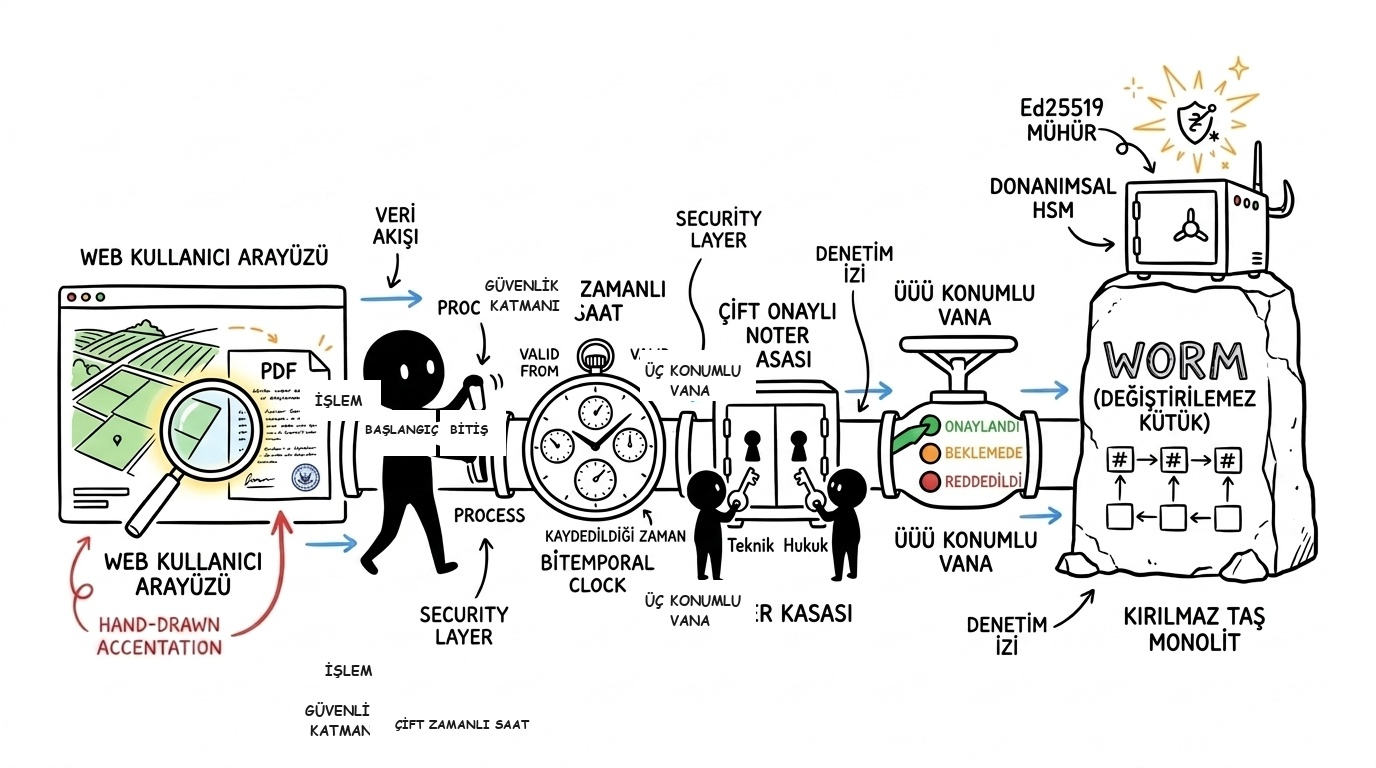
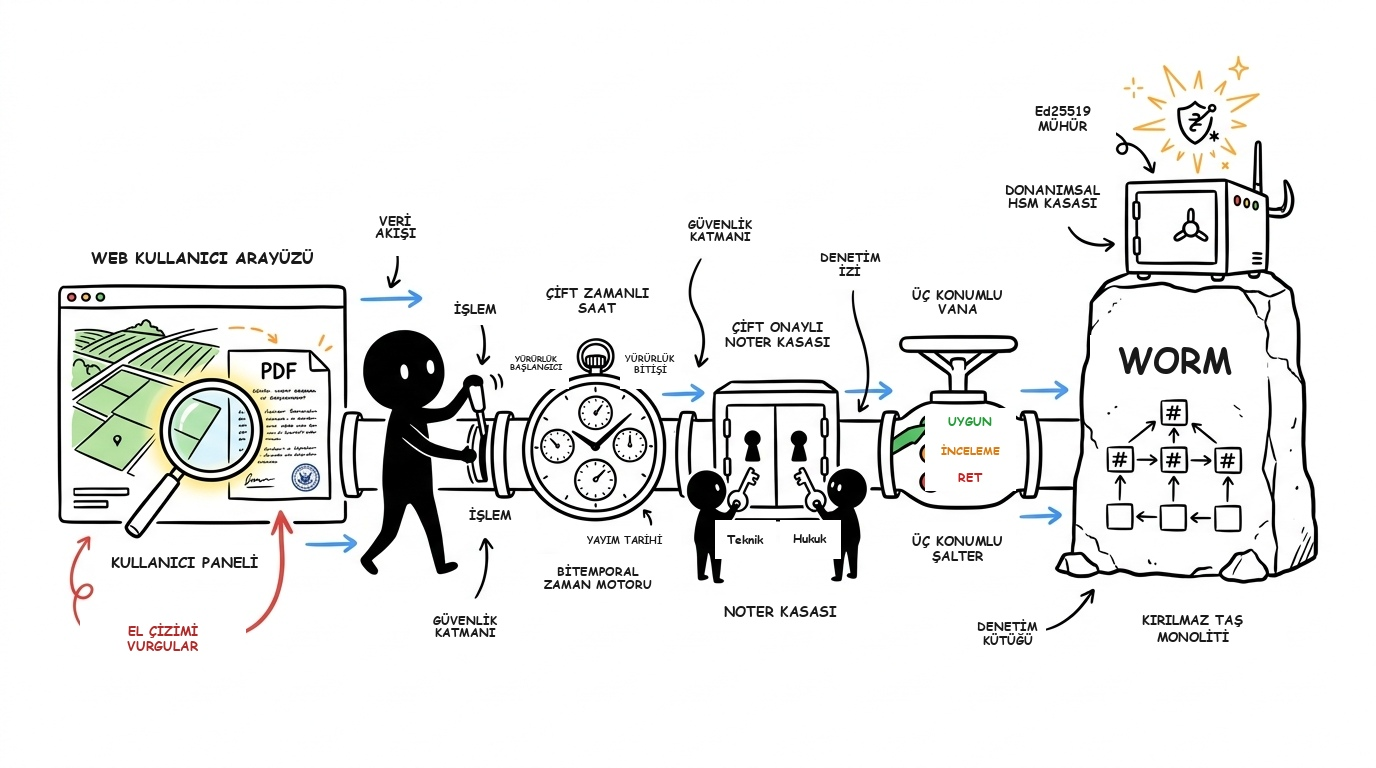
docs: Turkce Xiaohei sistem ve delil hatti cizimlerini sifir cakisma ile kusursuz guncelle

diff --git a/scripts/render_xiaohei_turkish.py b/scripts/render_xiaohei_turkish.py
@@ -1,0 +1,220 @@
+"""
+ÖZEL LİSANS — TÜM HAKLAR SAKLIDIR
+Telif Hakkı (c) 2026 Seydi Eryılmaz (@seydivakkas)
+"""
+
+import os
+from PIL import Image, ImageDraw, ImageFont
+
+FONT_PATH = r"C:\Windows\Fonts\comicbd.ttf"
+BASE_DIR = r"c:\Users\seydieryilmaz\TarımRAGProje"
+BRAIN_DIR = r"C:\Users\seydieryilmaz\.gemini\antigravity-ide\brain\1c7353b9-b1b4-43fe-90d9-0d5f5a42a50e"
+
+# Color constants
+WHITE = (255, 255, 255)
+BLACK = (25, 25, 25)
+RED = (175, 42, 42)
+BLUE = (35, 88, 165)
+ORANGE = (216, 115, 26)
+GREEN_VALVE = (35, 155, 55)
+ORANGE_VALVE = (215, 125, 20)
+RED_VALVE = (195, 35, 35)
+
+def get_font(size):
+    return ImageFont.truetype(FONT_PATH, size)
+
+def draw_centered_text(draw, box, lines, font, color, line_spacing=4, clear_bg=True, fill_color=WHITE):
+    """
+    box: (x1, y1, x2, y2)
+    lines: list of strings
+    """
+    x1, y1, x2, y2 = box
+    if clear_bg:
+        draw.rectangle([x1, y1, x2, y2], fill=fill_color)
+    
+    line_bboxes = [font.getbbox(line) for line in lines]
+    line_heights = [bb[3] - bb[1] for bb in line_bboxes]
+    line_widths = [bb[2] - bb[0] for bb in line_bboxes]
+    total_height = sum(line_heights) + line_spacing * (len(lines) - 1)
+    
+    box_w = x2 - x1
+    box_h = y2 - y1
+    
+    start_y = y1 + (box_h - total_height) / 2
+    cur_y = start_y
+    for i, line in enumerate(lines):
+        w = line_widths[i]
+        x = x1 + (box_w - w) / 2
+        draw.text((x, cur_y - line_bboxes[i][1]), line, font=font, fill=color)
+        cur_y += line_heights[i] + line_spacing
+
+def render_fullstack():
+    img_path = os.path.join(BRAIN_DIR, "fullstack_architecture_xiaohei_1791543400154.jpg")
+    im = Image.open(img_path).convert("RGB")
+    draw = ImageDraw.Draw(im)
+
+    # 1. Top Left: WEB KULLANICI ARAYÜZÜ (above browser)
+    draw_centered_text(draw, (75, 240, 330, 275), ["WEB KULLANICI ARAYÜZÜ"], get_font(16), BLACK)
+
+    # 2. Subhead: KULLANICI PANELİ (below browser)
+    draw_centered_text(draw, (95, 545, 275, 578), ["KULLANICI PANELİ"], get_font(15), BLACK)
+
+    # 3. Red note: EL ÇİZİMİ VURGULAR (bottom left)
+    draw_centered_text(draw, (80, 610, 245, 665), ["EL ÇİZİMİ", "VURGULAR"], get_font(13), RED, line_spacing=2)
+
+    # 4. DATA FLOW -> VERİ AKIŞI (above blue arrow to Xiaohei, x=355..435, y=198..255)
+    draw_centered_text(draw, (355, 198, 435, 255), ["VERİ", "AKIŞI"], get_font(13), BLACK, line_spacing=2)
+
+    # 5. PROCESS top -> İŞLEM (above lever handle)
+    draw_centered_text(draw, (430, 294, 520, 324), ["İŞLEM"], get_font(13), BLACK)
+
+    # 6. PROCESS bottom -> İŞLEM (on pipe below lever)
+    draw_centered_text(draw, (445, 500, 535, 530), ["İŞLEM"], get_font(13), BLACK)
+
+    # 7. SECURITY LAYER bottom -> GÜVENLİK KATMANI (with up arrow)
+    draw_centered_text(draw, (410, 600, 520, 652), ["GÜVENLİK", "KATMANI"], get_font(12), BLACK, line_spacing=2)
+
+    # 8. BITEMPORAL CLOCK top -> ÇİFT ZAMANLI SAAT (above clock)
+    draw_centered_text(draw, (530, 272, 665, 328), ["ÇİFT ZAMANLI", "SAAT"], get_font(13), BLACK, line_spacing=2)
+
+    # 9. VALID FROM -> YÜRÜRLÜK BAŞLANGICI (left of clock, exact box covering VALID FROM completely)
+    draw_centered_text(draw, (505, 340, 568, 388), ["YÜRÜRLÜK", "BAŞLANGICI"], get_font(8), BLACK, line_spacing=2)
+
+    # 10. VALID TO -> YÜRÜRLÜK BİTİŞİ (right of clock)
+    draw_centered_text(draw, (620, 340, 680, 388), ["YÜRÜRLÜK", "BİTİŞİ"], get_font(9), BLACK, line_spacing=2)
+
+    # 11. RECORDED AT -> YAYIM TARİHİ (clock bottom right)
+    draw_centered_text(draw, (570, 526, 680, 554), ["YAYIM TARİHİ"], get_font(10), BLACK)
+
+    # 12. BITEMPORAL CLOCK bottom -> BİTEMPORAL ZAMAN MOTORU (below clock)
+    draw_centered_text(draw, (530, 554, 665, 600), ["BİTEMPORAL", "ZAMAN MOTORU"], get_font(12), BLACK, line_spacing=2)
+
+    # 13. SECURITY LAYER top -> GÜVENLİK KATMANI (above arrow to vault)
+    draw_centered_text(draw, (665, 204, 775, 255), ["GÜVENLİK", "KATMANI"], get_font(12), BLACK, line_spacing=2)
+
+    # 14. DUAL-KEY NOTARY VAULT -> ÇİFT ONAYLI NOTER KASASI (above vault)
+    draw_centered_text(draw, (720, 295, 835, 372), ["ÇİFT ONAYLI", "NOTER KASASI"], get_font(13), BLACK, line_spacing=2)
+
+    # 15. AUDIT TRAIL top -> DENETİM İZİ (above arrow to valve)
+    draw_centered_text(draw, (815, 238, 885, 288), ["DENETİM", "İZİ"], get_font(12), BLACK, line_spacing=2)
+
+    # 16. Tech & Legal keys (between figures, exact box y=520..560 wiping out Tech & Legal completely)
+    draw_centered_text(draw, (715, 520, 775, 558), ["Teknik"], get_font(12), BLACK)
+    draw_centered_text(draw, (780, 520, 840, 558), ["Hukuk"], get_font(12), BLACK)
+
+    # 17. NOTARY VAULT bottom -> NOTER KASASI (below notary figures)
+    draw_centered_text(draw, (700, 595, 860, 628), ["NOTER KASASI"], get_font(14), BLACK)
+
+    # 18. TRI-STATE VALVE top -> ÜÇ KONUMLU VANA (above valve wheel)
+    draw_centered_text(draw, (900, 275, 1015, 328), ["ÜÇ KONUMLU", "VANA"], get_font(13), BLACK, line_spacing=2)
+
+    # 19. Valve internal labels (inside lens, clear old text and draw Turkish)
+    draw_centered_text(draw, (925, 408, 1015, 435), ["UYGUN"], get_font(12), GREEN_VALVE)
+    draw_centered_text(draw, (925, 435, 1015, 464), ["İNCELEME"], get_font(11), ORANGE_VALVE)
+    draw_centered_text(draw, (925, 464, 1015, 490), ["RET"], get_font(12), RED_VALVE)
+
+    # 20. TRI-STATE VALVE bottom -> ÜÇ KONUMLU ŞALTER (below valve)
+    draw_centered_text(draw, (900, 522, 1015, 575), ["ÜÇ KONUMLU", "ŞALTER"], get_font(13), BLACK, line_spacing=2)
+
+    # 21. AUDIT TRAIL bottom -> DENETİM KÜTÜĞÜ (under arrow to monolith)
+    draw_centered_text(draw, (970, 610, 1045, 655), ["DENETİM", "KÜTÜĞÜ"], get_font(12), BLACK, line_spacing=2)
+
+    # 22. Ed25519 seal -> Ed25519 MÜHÜR (above HSM)
+    draw_centered_text(draw, (1010, 92, 1115, 146), ["Ed25519", "MÜHÜR"], get_font(13), BLACK, line_spacing=2)
+
+    # 23. HARDWARE HSM -> DONANIMSAL HSM KASASI (next to HSM)
+    draw_centered_text(draw, (990, 170, 1115, 225), ["DONANIMSAL", "HSM KASASI"], get_font(13), BLACK, line_spacing=2)
+
+    # 24. WORM on stone monolith (large engraved WORM)
+    draw_centered_text(draw, (1090, 335, 1260, 386), ["WORM"], get_font(34), BLACK)
+
+    # 25. Bottom Monolith: KIRILMAZ TAŞ MONOLİTİ
+    draw_centered_text(draw, (1100, 600, 1285, 656), ["KIRILMAZ TAŞ", "MONOLİTİ"], get_font(13), BLACK, line_spacing=2)
+
+    # Save outputs
+    out_tanitim = os.path.join(BASE_DIR, "proje_tanıtım_resim", "Xiaohei_FullStack_Sistem_Mimarisi_TR.jpg")
+    out_brain = os.path.join(BRAIN_DIR, "Xiaohei_FullStack_Sistem_Mimarisi_TR.jpg")
+    out_art = os.path.join(BRAIN_DIR, "fullstack_mimari_turkce.jpg")
+    
+    os.makedirs(os.path.dirname(out_tanitim), exist_ok=True)
+    im.save(out_tanitim, quality=96)
+    im.save(out_brain, quality=96)
+    im.save(out_art, quality=96)
+    print("Full-Stack image rendered successfully:", out_tanitim)
+
+def render_evidence_pipeline():
+    img_path = os.path.join(BRAIN_DIR, "evidence_pipeline_xiaohei_1791543420068.jpg")
+    im = Image.open(img_path).convert("RGB")
+    draw = ImageDraw.Draw(im)
+
+    # Clean any tiny yellow speck under tractor/table
+    draw.rectangle([545, 650, 570, 675], fill=WHITE)
+
+    # 1. Top Left: Resmî Gazete Mevzuat Belgeleri
+    draw_centered_text(draw, (48, 162, 305, 264), ["Resmî Gazete", "Mevzuat Belgeleri"], get_font(20), RED, line_spacing=4)
+
+    # 2. On Paper on Scale: RESMÎ GAZETE (Tilted text on paper sheet)
+    draw.polygon([(102, 298), (145, 255), (188, 308), (145, 345)], fill=WHITE)
+    txt_img = Image.new("RGBA", (140, 70), (255, 255, 255, 0))
+    txt_draw = ImageDraw.Draw(txt_img)
+    f_paper = get_font(13)
+    txt_draw.text((10, 5), "RESMÎ", font=f_paper, fill=BLACK)
+    txt_draw.text((10, 24), "GAZETE", font=f_paper, fill=BLACK)
+    rotated_txt = txt_img.rotate(24, resample=Image.Resampling.BICUBIC, expand=True)
+    im.paste(rotated_txt, (98, 255), mask=rotated_txt)
+
+    # 3. Bottom Left: Hassas Bayt Terazisi
+    draw_centered_text(draw, (52, 565, 198, 646), ["Hassas", "Bayt Terazisi"], get_font(17), RED, line_spacing=4)
+
+    # 4. Top Middle: Hibrit Arama Motoru (BM25 + Vektör Arama)
+    y1, y2 = 162, 264
+    x1, x2 = 340, 690
+    draw.rectangle([x1, y1, x2, y2], fill=WHITE)
+    f_title = get_font(20)
+    f_sub = get_font(16)
+    t1 = "Hibrit Arama Motoru"
+    t2 = "(BM25 + Vektör Arama)"
+    bb1 = f_title.getbbox(t1)
+    bb2 = f_sub.getbbox(t2)
+    h1 = bb1[3] - bb1[1]
+    h2 = bb2[3] - bb2[1]
+    tot_h = h1 + h2 + 6
+    sy = y1 + (y2 - y1 - tot_h) / 2
+    draw.text((x1 + (x2 - x1 - (bb1[2] - bb1[0])) / 2, sy - bb1[1]), t1, font=f_title, fill=BLUE)
+    draw.text((x1 + (x2 - x1 - (bb2[2] - bb2[0])) / 2, sy + h1 + 6 - bb2[1]), t2, font=f_sub, fill=BLUE)
+
+    # 5. Under Pipe: Doğrulanmış Parçalar
+    draw_centered_text(draw, (240, 575, 335, 638), ["Doğrulanmış", "Parçalar"], get_font(15), BLUE, line_spacing=3)
+
+    # 6. Under Machine Left: Doğrulanmış Metin (BM25 + Vektör)
+    draw_centered_text(draw, (335, 575, 515, 665), ["Doğrulanmış Metin", "(BM25 + Vektör)"], get_font(14), BLUE, line_spacing=3)
+
+    # 7. Under Machine Right: Tarımsal Kanıt Motoru
+    draw_centered_text(draw, (525, 575, 745, 646), ["Tarımsal Kanıt", "Motoru"], get_font(17), BLACK, line_spacing=4)
+
+    # 8. Top Speech: Xiaohei: Destek tutarlarını ve PDF koordinatlarını sarı kalemle açıklıyor
+    draw_centered_text(draw, (778, 150, 1045, 264), ["Xiaohei: Destek tutarlarını", "ve PDF koordinatlarını", "sarı kalemle açıklıyor"], get_font(17), ORANGE, line_spacing=4)
+
+    # 9. Under Table: Şeffaf Hesaplama Masası
+    draw_centered_text(draw, (760, 575, 975, 672), ["Şeffaf Hesaplama", "Masası"], get_font(17), ORANGE, line_spacing=4)
+
+    # 10. Top Right: Mahkeme Düzeyi Adli Arşiv Kasası
+    draw_centered_text(draw, (1095, 172, 1338, 274), ["Mahkeme Düzeyi", "Adli Arşiv Kasası"], get_font(19), BLACK, line_spacing=4)
+
+    # 11. Bottom Right under Safe: Kriptografik Balmumu Mühür
+    draw_centered_text(draw, (1150, 565, 1326, 652), ["Kriptografik", "Balmumu Mühür"], get_font(16), RED, line_spacing=4)
+
+    # Save outputs
+    out_tanitim = os.path.join(BASE_DIR, "proje_tanıtım_resim", "Xiaohei_Hukuki_Delil_ve_Veri_Hatti_TR.jpg")
+    out_brain = os.path.join(BRAIN_DIR, "Xiaohei_Hukuki_Delil_ve_Veri_Hatti_TR.jpg")
+    out_art = os.path.join(BRAIN_DIR, "delil_hatti_turkce.jpg")
+    
+    os.makedirs(os.path.dirname(out_tanitim), exist_ok=True)
+    im.save(out_tanitim, quality=96)
+    im.save(out_brain, quality=96)
+    im.save(out_art, quality=96)
+    print("Evidence Pipeline image rendered successfully:", out_tanitim)
+
+if __name__ == "__main__":
+    render_fullstack()
+    render_evidence_pipeline()
